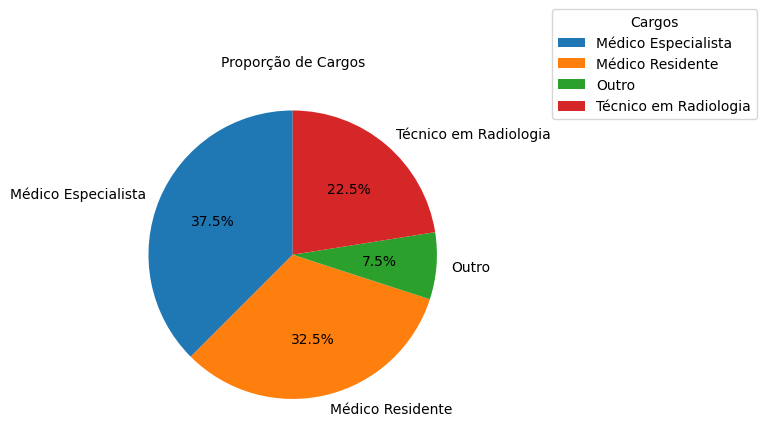
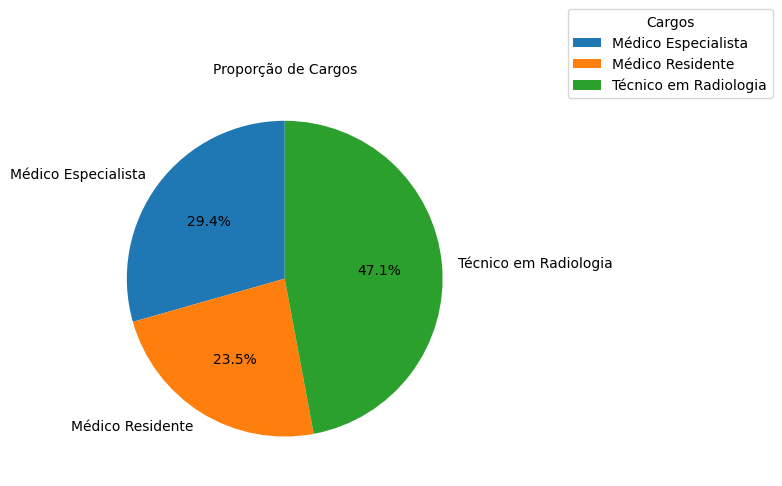
feat: plotando gráficos e gerando estatísticas a partir de dados reais

diff --git a/src/main.py b/src/main.py
@@ -3,7 +3,7 @@ from .plot import generate_graphs as gng
 from .stats import generate_stats as gns
 
 if __name__ == "__main__":
-    CSV_PATH = "data/csv_files/mockup/respostas_questionario.csv"
+    CSV_PATH = "data/csv_files/respostas.csv"
     
     df = pd.read_csv(CSV_PATH)
 
